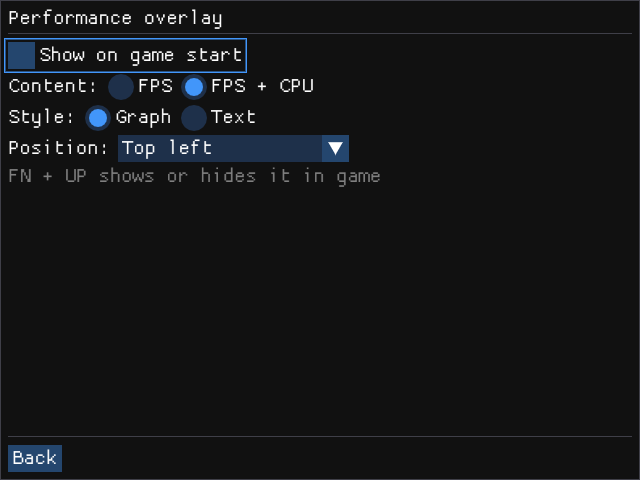
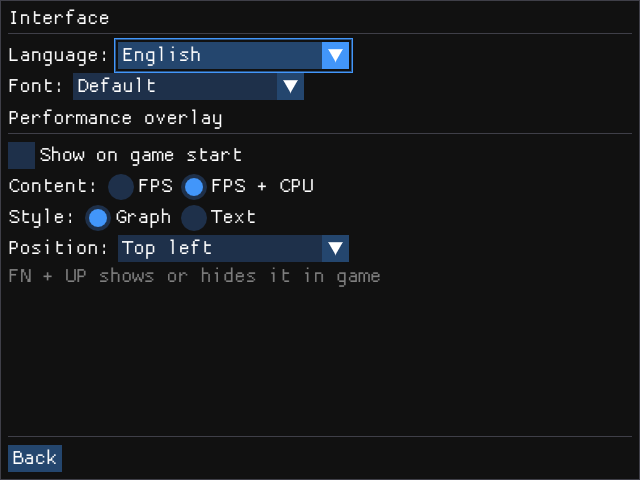
Moved the Performance overlay options into the Interface page

Changed region(s): [[0.0, 0.0312, 0.5938, 0.5938], [0.0, 0.5625, 0.125, 0.5938]]

diff --git a/rootfs/package/system-settings/system-settings.cpp b/rootfs/package/system-settings/system-settings.cpp
@@ -657,14 +657,13 @@ int main(int argc, char* argv[]) {
 
     // The main page is a menu of sections; each opens its own page
     enum Page { PAGE_NONE, PAGE_MAIN, PAGE_DISPLAY, PAGE_LAUNCHER, PAGE_INTERFACE, PAGE_STORAGE,
-                PAGE_SYSTEM_MENU, PAGE_SYSTEM, PAGE_INPUT, PAGE_TESTER, PAGE_TABS, PAGE_OVERLAY };
+                PAGE_SYSTEM_MENU, PAGE_SYSTEM, PAGE_INPUT, PAGE_TESTER, PAGE_TABS };
     Page page = PAGE_MAIN;
     // Where B / Back goes from each page (PAGE_NONE: leave the app)
     auto parent_of = [](Page p) {
         switch (p) {
             case PAGE_MAIN:   return PAGE_NONE;
             case PAGE_TABS:   return PAGE_LAUNCHER;
-            case PAGE_OVERLAY: return PAGE_INTERFACE;
             case PAGE_SYSTEM: return PAGE_SYSTEM_MENU;
             case PAGE_TESTER: return PAGE_INPUT;
             default:          return PAGE_MAIN;
@@ -922,12 +921,11 @@ int main(int argc, char* argv[]) {
                     ImGui::EndCombo();
                 }
             }
-            page_button(tr("Performance overlay"), PAGE_OVERLAY);
-            end_page();
-        } else if (page == PAGE_OVERLAY) {
-            begin_page("Overlay", "Performance overlay");
+            ImGui::Spacing();
+            ImGui::Text("%s", tr("Performance overlay"));
+            ImGui::Separator();
+            ImGui::Spacing();
             bool hud_changed = ImGui::Checkbox(tr("Show on game start"), &hud.visible);
-            ImGui::SetItemDefaultFocus();
             ImGui::AlignTextToFramePadding();
             ImGui::Text("%s", tr("Content:"));
             ImGui::SameLine();

diff --git a/README.md b/README.md
@@ -186,8 +186,8 @@ VT323 and Pixelify Sans are under the SIL Open Font License and ProggyClean unde
 | Main page | Display & Audio |
 | --- | --- |
 | ![System Settings](docs/screenshots/system-settings.png) | ![Display & Audio](docs/screenshots/system-settings-audio.png) |
-| **Performance overlay** | **In game (FN + D-pad up)** |
-| ![Performance overlay](docs/screenshots/system-settings-overlay.png) | ![Performance overlay in game](docs/screenshots/performance-overlay.png) |
+| Interface | Performance overlay in game (FN + D-pad up) |
+| ![Interface](docs/screenshots/system-settings-overlay.png) | ![Performance overlay in game](docs/screenshots/performance-overlay.png) |
 
 ## Translations
 Every text in the launcher, System Settings, the confirmation screens and `Resize Home` can be translated, and new languages need no code changes. Languages live in `/usr/share/goodluck/lang/<code>.lang` (in the repository: `rootfs/board/my-device/rootfs-overlay/usr/share/goodluck/lang/`) and show up in System Settings -> Interface -> Language as soon as the file is there.
